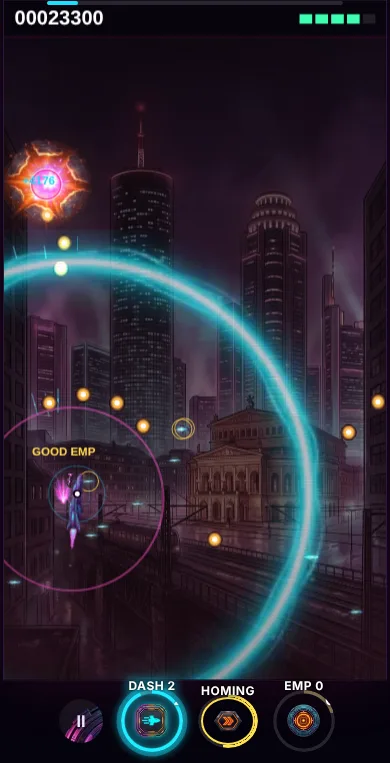
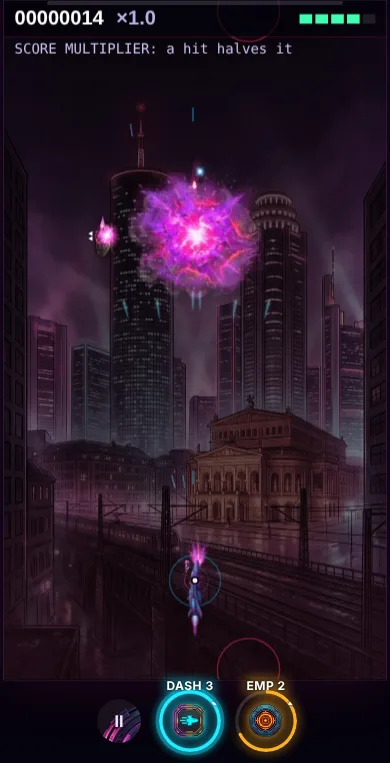
Nightrun W209: booms scaled to read (about 2x the hull), new clean shots

diff --git a/games-src/nightrun/parts/art/boomart.js b/games-src/nightrun/parts/art/boomart.js
@@ -19,3 +19,5 @@ FXW.bk=function(base,e,sz){
 NR.on('kill',({e,boss})=>{if(!RET.boomart||!RET.sprites||boss||!e||BOOMA.cls(e)==='small')return;
   if((e.type==='gunship'||e.type==='mine')&&AH.ok('fx-boom-debris'))return;   // art.js already draws it for these two
   if(FXW.has('boom-debris'))ART.boom('boom-debris',e.x,e.y,Math.max(54,(e.r||14)*3.6)*1.2,.55);});
+{const bm=ART.boom,K={small:1.7,medium:1.8,large:2,boss:1.5};   // owner/orchestrator 24 Oct: a kill boom reads at about twice the ship it replaces
+ART.boom=function(k,x,y,sz){if(RET.boomart){const m=/^boom-(small|medium|large|boss)/.exec(k);if(m)arguments[2+1]=sz*K[m[1]];}return bm.apply(this,arguments);};}

diff --git a/games-src/nightrun/review-shots/W209/README.md b/games-src/nightrun/review-shots/W209/README.md
@@ -1,12 +1,13 @@
 # W209 boom art (flag `boomart`, default on, `?boomart=0` = old look)
 
-Phone (390x763) and PC (1440x860), stage 1, 0.23 s after a gunship kill: large-plasma boom with its debris sheet, drawn with normal blending.
+Phone (390x763) and PC (1440x860), stage 1, no EMP, ~0.23 s after a large-hull (gunship) kill: large-plasma boom with debris, normal blending, scaled about 2x the hull (small 1.7x, medium 1.8x, large 2x, boss 1.5x of the old size). `boss-pc.webp`: the boss blast sequence (four boss-a, final boss-b) ~0.6 s after the kill.
+These shots are CONTROLLED: a kill is injected at a fixed mid-screen spot in a stepped stage-1 run, because the bot's real gunship kills happen at the screen edge where the HUD hides them (the first real-kill pair was dominated by the EMP ring and the blast sat under the top edge). The blast is now about 1/6 of the screen height at its peak.
 
-Comparison with a well-regarded modern side-scrolling shoot-'em-up explosion: no reference URL was verified in this session, so none is given (owner: send one and I will score the row). Honest read: our boom now has real smoke and debris and a size/kind that matches the ship, but a gunship blast is only about 150 world units wide, so on the PC shot it is small next to the EMP ring and the backdrop. Larger blast scale (and art with more depth) is the next step, not more tint.
+Comparison with a well-regarded modern side-scrolling shoot-'em-up explosion: no reference URL was verified in this session, so none is given (owner: send one and I will score the row). Honest read: the boom now has smoke, debris and a size and kind that match the hull, and reads clearly. The sheet is 5 frames (0.42 s), so it is gone quickly; frame 0-1 are small cores. A short additive core flash and a longer tail are not added.
 
 ## game-look "Check before reporting" (no benchmark frame was compared: no verified URL; answers are from my own look at the pair)
 - SHIPS: untouched by this task. Enemy hulls and the player ship are still the sizes other workers (W207, W210) are changing; I did not judge them.
 - BULLETS: untouched. Enemy shots in the pair are orange discs; whether they are distinct per enemy is W208's job.
 - ENVIRONMENT: untouched. The backdrop is still as bright and detailed as the play layer, which the skill names as the first thing to fix; it looks pasted.
-- FEEL: explosions now use the owner's sheets with normal blending, full strip length, size and kind matched to the hull, debris from medium up. Still sloppy: the blast is small for a large kill, and the skill's "brief additive core flash" and any screen shake are not added. The EMP ring and score pop-up cover most of the blast in the PC shot. Not yet something I would call good.
+- FEEL: explosions now use the owner's sheets with normal blending, full strip length, size and kind matched to the hull, debris from medium up. Still sloppy: the skill's "brief additive core flash" and any screen shake are not added. Not yet something I would call good.
 - Impeccable critique/animate references were not applied: the task changed no HUD or menu.
